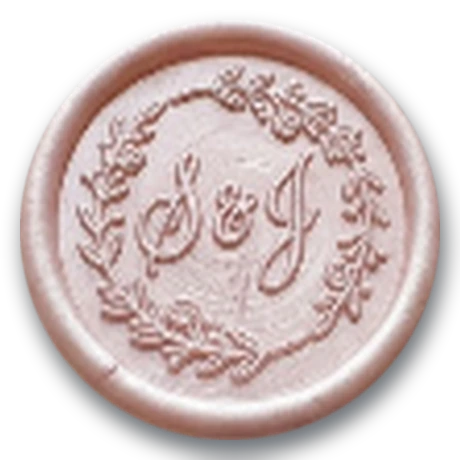
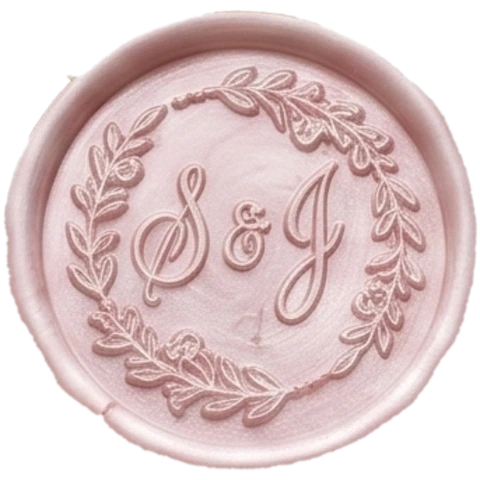
Sobre: cordel y lazo de yute a partir de la foto nueva; el sello sujeta el lazo mientras se deshace
Claude-Session: https://claude.ai/code/session_01PRGUqaakqaCE54LNyAMwaz

diff --git a/css/propuesta.css b/css/propuesta.css
@@ -70,22 +70,23 @@ body.con-sobre { overflow: hidden; }
 /* Piezas (posiciones medidas en la ilustración) */
 .pieza { display: block; max-width: none; pointer-events: none; transition: transform 1s cubic-bezier(.55, 0, .35, 1), opacity .9s ease; }
 /* Un solo cordel vertical (dos cuerdecillas) a la izquierda; nudo en (22%, 46.5%) */
-.pieza--cinta { z-index: 5; object-fit: fill; }
-.pieza--cinta-v { left: 17.71%; top: 0; width: 4.8%; height: 100%; }   /* de filete a filete */
+.pieza--cinta { z-index: 5; object-fit: fill; filter: drop-shadow(1px 3px 3px rgba(0, 0, 0, .45)); }
+.pieza--lazo { filter: drop-shadow(1px 4px 4px rgba(0, 0, 0, .45)); }
+.pieza--cinta-v { left: 17.88%; top: 0; width: 4.45%; height: 100%; }   /* de filete a filete */
 .pieza--cinta-h { display: none; }
 
 /* Interior: forro azul con rayas doradas y tarjeta de papel crema */
 .sobre__interior { inset: 0; z-index: 0; display: grid; place-items: center; background: repeating-linear-gradient(0deg, transparent 0 14px, rgba(207, 167, 90, .14) 14px 15px), #172a3c; }
-.pieza--lazo { left: -3.9%; top: 36.3%; width: 48.04%; height: 32.74%; z-index: 6; }
+.pieza--lazo { left: -1.33%; top: 40.32%; width: 45%; height: 34.11%; z-index: 6; }
 .pieza--lazo { background: url("../img/sobre-lazo-desata.webp") 0 0 / 1600% 100% no-repeat; }
 @keyframes desatar { to { background-position: 100% 0; } }
 /* Sello de lacre sobre el nudo */
 .pieza--sello {
-  left: 9.98%; top: 43.31%; width: 20.28%; height: 13.81%; z-index: 7;
+  left: 10.66%; top: 42.43%; width: 18.08%; height: 12.34%; z-index: 7;
   padding: 0; border: 0; background: none; cursor: pointer; pointer-events: auto;
   animation: sello-latido 2.6s ease-in-out infinite;
 }
-.pieza--sello img { display: block; width: 100%; height: 100%; }
+.pieza--sello img { display: block; width: 100%; height: 100%; filter: drop-shadow(2px 6px 6px rgba(0, 0, 0, .5)); }
 .pieza--sello:focus-visible { outline: 3px solid #cfa75a; outline-offset: 4px; border-radius: 50%; }
 @keyframes sello-latido { 0%, 100% { transform: scale(1); } 50% { transform: scale(1.05); } }
 
@@ -99,8 +100,10 @@ body.con-sobre { overflow: hidden; }
 .sobre__saltar { position: absolute; z-index: 9; top: 12px; right: 12px; padding: 6px 12px; border: 0; background: none; color: #cfb98a; font: 500 13px var(--fuente-texto); text-decoration: underline; text-underline-offset: 3px; cursor: pointer; transition: opacity .3s; }
 
 /* Secuencia lenta, por trozos (clases que añade js/propuesta.js):
-   1 salta el sello → 2 el nudo se deshace → C el cordel se retira → 3 se abre la solapa → 4 sale la tarjeta → 5 el sobre se va → 6 fondo crema → 7 fundido */
-.sobre.paso1 .pieza--sello { animation: none; transform: translateY(-14%) scale(1.12); opacity: 0; transition: transform .9s ease, opacity .8s ease .1s; }
+   1 se pulsa el sello → 2 el lazo se deshace → S se levanta el sello → C el cordel se retira → 3 se abre la solapa → 4 sale la tarjeta → 5 el sobre se va → 6 fondo crema → 7 fundido */
+.sobre.paso1 .pieza--sello { animation: none; transform: scale(.96); transition: transform .3s ease; }
+/* el sello sujeta el lazo mientras se deshace; luego se levanta */
+.sobre.pasoS .pieza--sello { transform: translateY(-14%) scale(1.12); opacity: 0; transition: transform .9s ease, opacity .8s ease .1s; }
 .sobre.paso1 .sobre__pista, .sobre.paso1 .sobre__saltar { animation: none; opacity: 0; }
 /* 2 · el nudo se deshace poco a poco, como si se tirara de una punta */
 .sobre.paso2 .pieza--lazo { animation: desatar 2.2s steps(15) forwards; }

diff --git a/js/propuesta.js b/js/propuesta.js
@@ -31,10 +31,10 @@
       if (sobre.dataset.abriendo) return;
       sobre.dataset.abriendo = "si";
       if (sinMovimiento) return cerrar();
-      // sello → se deshace el nudo → se retira el cordel → se abre la solapa → sale la tarjeta → fondo crema → fundido
-      const pasos = [["paso1", 0], ["paso2", 500], ["pasoC", 2850], ["paso3", 3900], ["paso4", 5000], ["paso5", 7000], ["paso6", 8500], ["paso7", 9700]];
+      // sello → se deshace el lazo → se levanta el sello → se retira el cordel → se abre la solapa → sale la tarjeta → fondo crema → fundido
+      const pasos = [["paso1", 0], ["paso2", 400], ["pasoS", 2650], ["pasoC", 3350], ["paso3", 4400], ["paso4", 5500], ["paso5", 7500], ["paso6", 9000], ["paso7", 10200]];
       pasos.forEach(([clase, ms]) => setTimeout(() => sobre.classList.add(clase), ms));
-      setTimeout(cerrar, 10500);
+      setTimeout(cerrar, 11000);
     };
     $("#sobre-sello").addEventListener("click", abrir);
     $("#sobre-saltar").addEventListener("click", cerrar);
